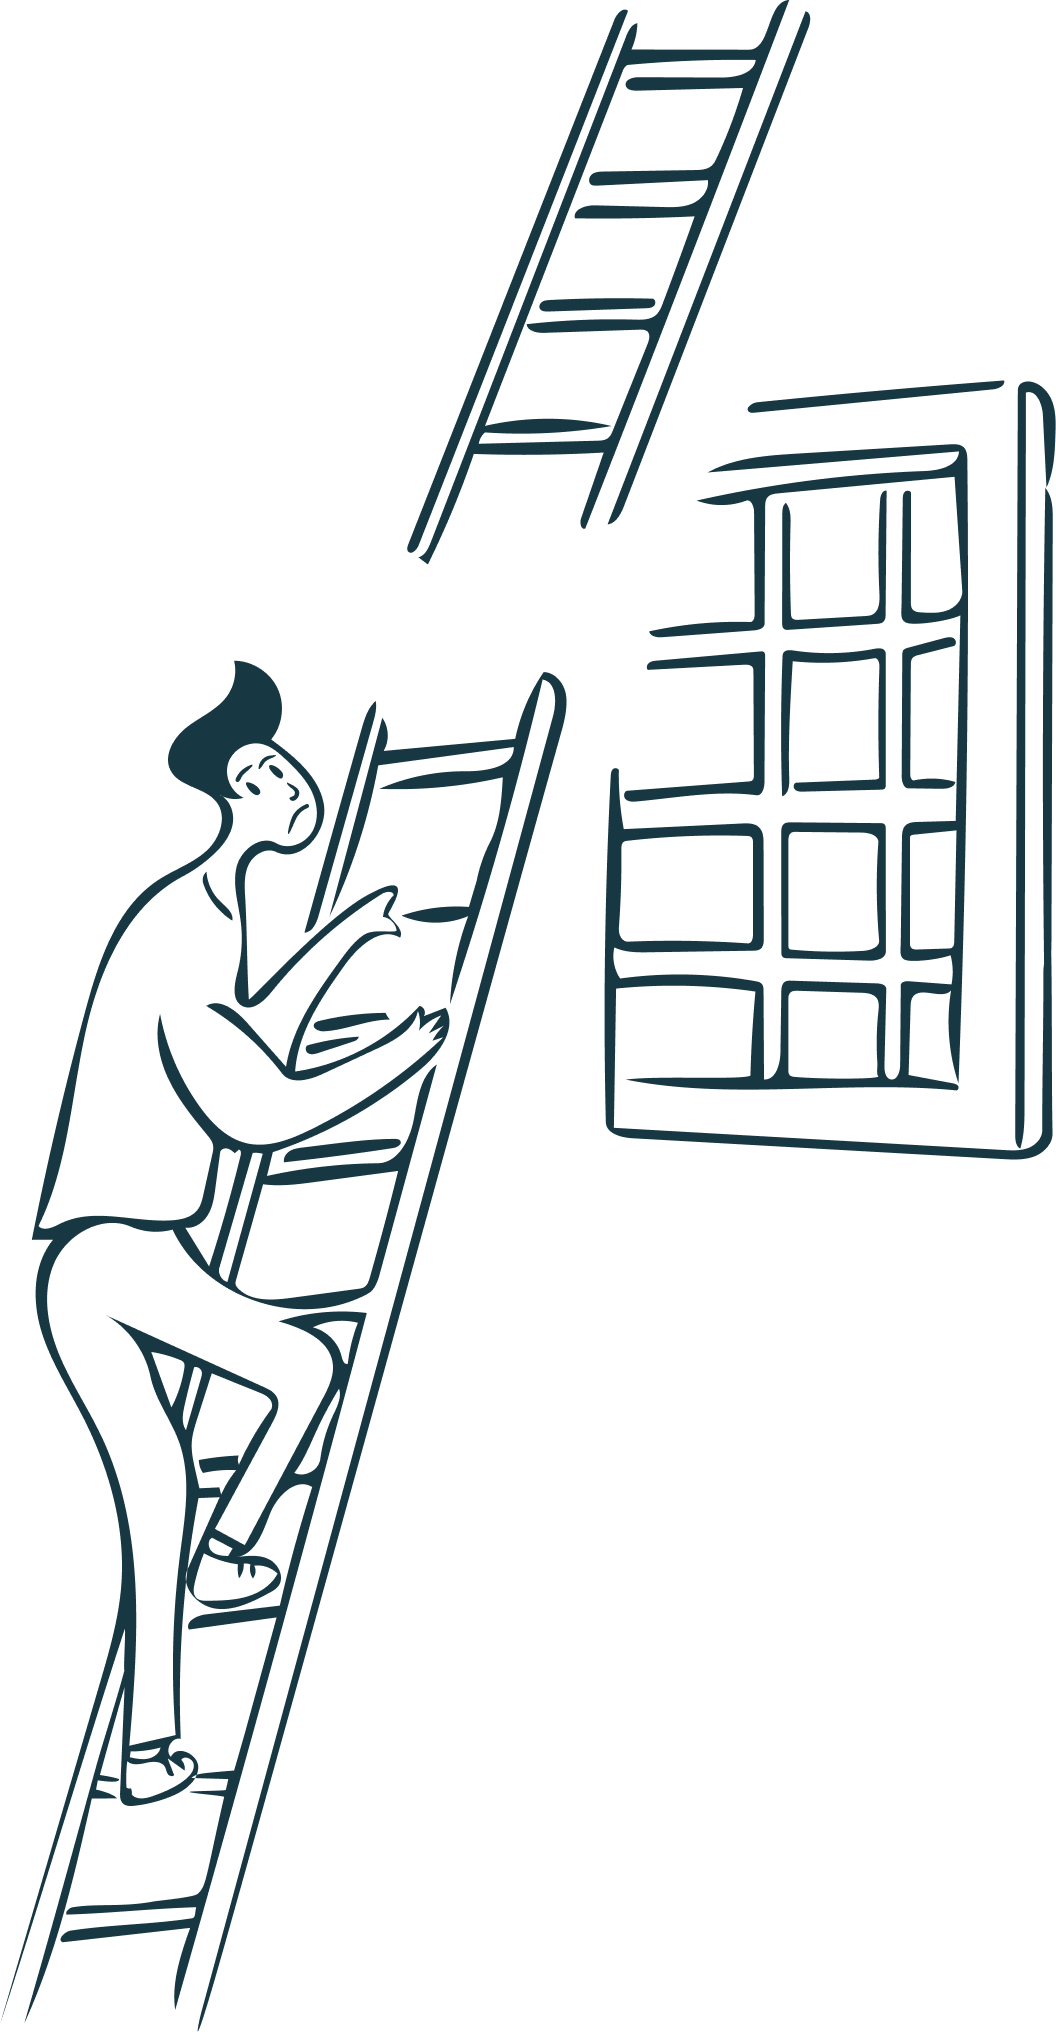
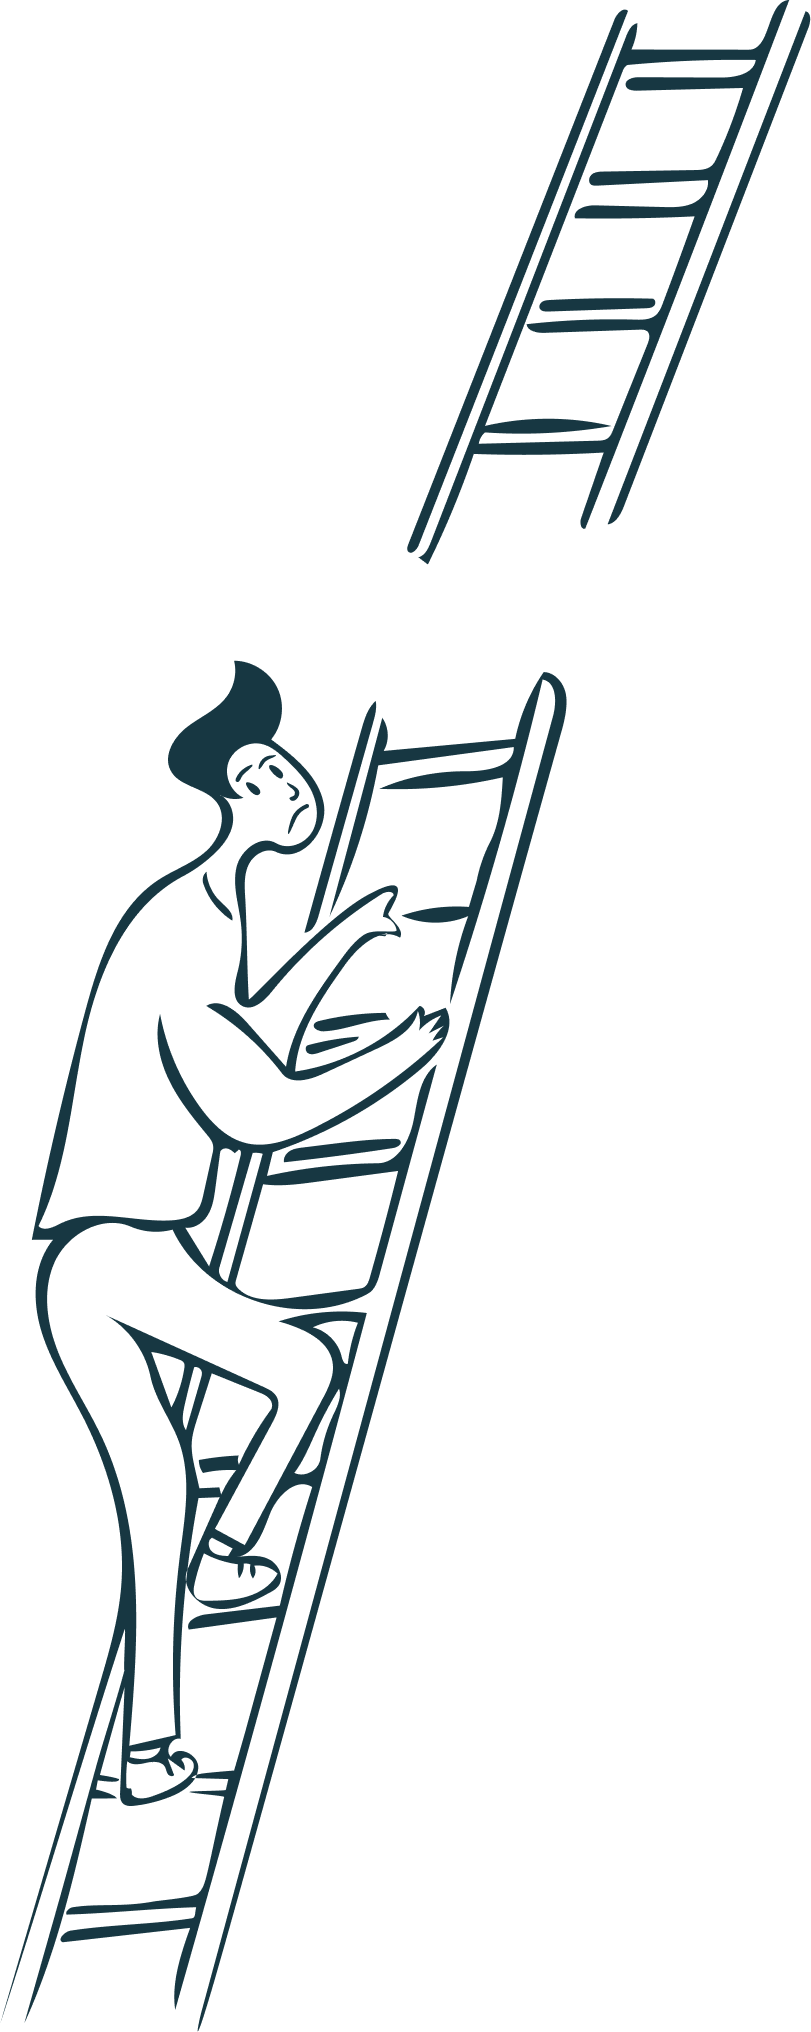
remove window

Changed region(s): [[0.0, 0.0, 1.0, 1.0]]

diff --git a/index.html b/index.html
@@ -196,11 +196,12 @@
     <div id="approach" class="container pb-5">
       <img src="images/illustration/Ladder.png" class="ladder" />
       <h2 class="pt-2">Often, your Agency isn't the problem.</h2>
-      <p class="fs-3 lh-lg">The agency with accolades isn't performing. It's not because they're not good. It's because you're a number.</p>
+      <p>The agency with accolades isn't performing. It's not because they're not good. <br/> It's because you're a number.</p>
       <h2>Get personal</h2>
-      <p class="fs-3 lh-lg">Are your paid campaigns on Facebook, Google, or TikTok, not getting the right results? Ready to get scrappy? <br> We're  damn scrappy. Setup a call right now.</p>
+      <p>Are your paid campaigns on Facebook, Google, or TikTok, not getting the right results? Ready to get scrappy? <br> We're  damn scrappy. <br/> Setup a call right now.</p>
       <h2>Fair Warning</h1>
-      <p class="fs-3 lh-lg">We've been burned too. We don't push bs widgets. We often demand samples. We only accept passionate clients with top products & experiences. We're passionate and worth every penny. </p>
+      <p>We've been burned too. We don't push bs widgets. We often demand samples. We only accept passionate clients with top products & experiences.</p>
+      <p>We're passionate and worth every penny. </p>
     </div>
     <div class="custom-shape-divider bg-tan bottom blue reverse">
       <svg data-name="Layer 1" xmlns="http://www.w3.org/2000/svg" viewBox="0 0 1200 120" preserveAspectRatio="none">

diff --git a/intonation-marketing.css b/intonation-marketing.css
@@ -267,6 +267,8 @@ img.circle {
 
 .ladder {
     display: block;
-    margin: -64px auto 24px;
+    margin: -56px auto 24px;
     width: 180px;
+    position: relative;
+    z-index: 1;
 }
